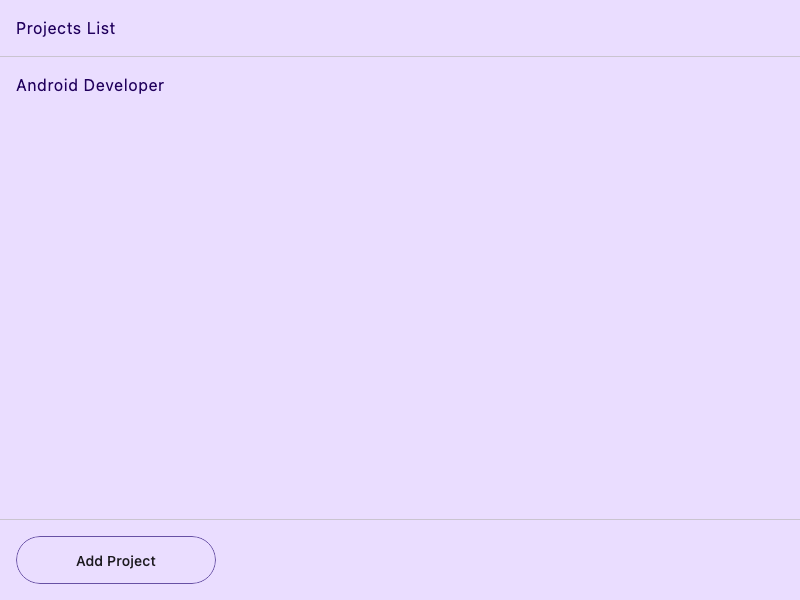
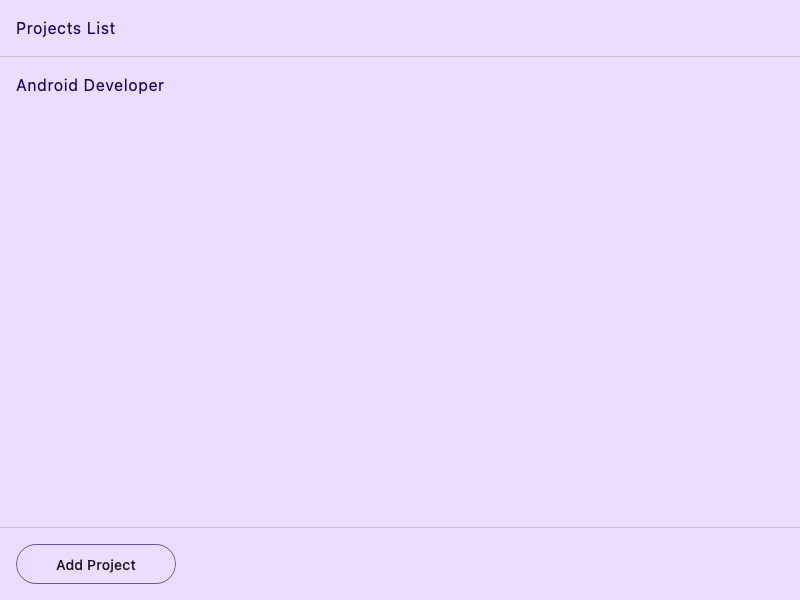
Introduce scalable UI tokens and compact project controls
- Move spacing, dimensions and typography into ReframeTheme.tokens
- Add UiScale with 5% steps between 75% and 150%
- Keep outline width and animation duration constant
- Reduce project action buttons to 160 × 40 dp
- Add scale galleries and tests for live theme updates
- Resize ProjectControls goldens to fit the panel

Validation: tests, screenshot checks, ktlint, Detekt and coverage passed

Changed region(s): [[0.0312, 0.87, 0.25, 0.9], [0.0625, 0.93, 0.1875, 0.96]]

diff --git a/shared/src/commonMain/kotlin/reframecv/ui/compose/projects/ProjectControls.kt b/shared/src/commonMain/kotlin/reframecv/ui/compose/projects/ProjectControls.kt
@@ -5,7 +5,7 @@ import androidx.compose.foundation.layout.BoxWithConstraints
 import androidx.compose.foundation.layout.fillMaxWidth
 import androidx.compose.foundation.layout.height
 import androidx.compose.foundation.layout.padding
-import androidx.compose.foundation.layout.width
+import androidx.compose.foundation.layout.size
 import androidx.compose.foundation.lazy.grid.GridCells
 import androidx.compose.foundation.lazy.grid.LazyHorizontalGrid
 import androidx.compose.foundation.lazy.grid.items
@@ -31,7 +31,8 @@ internal fun ProjectControls(actions: List<ProjectAction>, modifier: Modifier = 
         val columnWidth = tokens.dimensions.projectActionWidth + tokens.spacing.small
         val columns = ((maxWidth + tokens.spacing.small) / columnWidth).toInt().coerceAtLeast(1)
         val rows = if (actions.size > columns) MAX_CONTROL_ROWS else 1
-        val height = tokens.dimensions.buttonHeight * rows + tokens.spacing.small * (rows - 1)
+        val height =
+            tokens.dimensions.projectActionHeight * rows + tokens.spacing.small * (rows - 1)
         LazyHorizontalGrid(
             rows = GridCells.Fixed(rows),
             modifier = Modifier.fillMaxWidth().height(height).testTag(PROJECT_CONTROLS_TAG),
@@ -44,7 +45,10 @@ internal fun ProjectControls(actions: List<ProjectAction>, modifier: Modifier = 
                     onClick = action.onClick,
                     enabled = action.enabled,
                     outlineState = FillButton.OutlineState.Visible,
-                    modifier = Modifier.width(tokens.dimensions.projectActionWidth),
+                    modifier = Modifier.size(
+                        width = tokens.dimensions.projectActionWidth,
+                        height = tokens.dimensions.projectActionHeight,
+                    ),
                 )
             }
         }

diff --git a/shared/src/jvmTest/kotlin/reframecv/ui/compose/projects/ProjectControlsScreenshotTest.kt b/shared/src/jvmTest/kotlin/reframecv/ui/compose/projects/ProjectControlsScreenshotTest.kt
@@ -8,6 +8,7 @@ import androidx.compose.ui.Modifier
 import androidx.compose.ui.test.ComposeUiTest
 import androidx.compose.ui.test.ExperimentalTestApi
 import androidx.compose.ui.test.v2.runComposeUiTest
+import androidx.compose.ui.unit.dp
 import kotlin.test.Test
 import reframecv.shared.generated.resources.Res
 import reframecv.shared.generated.resources.projects_add
@@ -51,7 +52,8 @@ class ProjectControlsScreenshotTest : GoldenScreenshotTest() {
         } else {
             emptyList()
         }
-        setAndCaptureGolden(test, themeMode = themeMode) {
+        val screenSize = ScreenSize(width = 600.dp, height = if (manyActions) 120.dp else 72.dp)
+        setAndCaptureGolden(test, screenSize = screenSize, themeMode = themeMode) {
             Box(Modifier.fillMaxSize().background(MaterialTheme.colorScheme.background)) {
                 ProjectControls(actions = labels.map { ProjectAction(label = it, onClick = {}) })
             }

diff --git a/shared/src/commonMain/kotlin/reframecv/ui/theme/UiTokens.kt b/shared/src/commonMain/kotlin/reframecv/ui/theme/UiTokens.kt
@@ -15,6 +15,7 @@ data class UiDimensions(
     val navigationWidth: Dp,
     val buttonHeight: Dp,
     val projectActionWidth: Dp,
+    val projectActionHeight: Dp,
     val projectHelpMaxWidth: Dp,
     val iconSize: Dp,
     val iconButtonSize: Dp,
@@ -43,7 +44,8 @@ internal fun createUiTokens(scale: UiScale): UiTokens {
         dimensions = UiDimensions(
             navigationWidth = 220.dp * factor,
             buttonHeight = 48.dp * factor,
-            projectActionWidth = 200.dp * factor,
+            projectActionWidth = 160.dp * factor,
+            projectActionHeight = 40.dp * factor,
             projectHelpMaxWidth = 560.dp * factor,
             iconSize = 24.dp * factor,
             iconButtonSize = 48.dp * factor,
